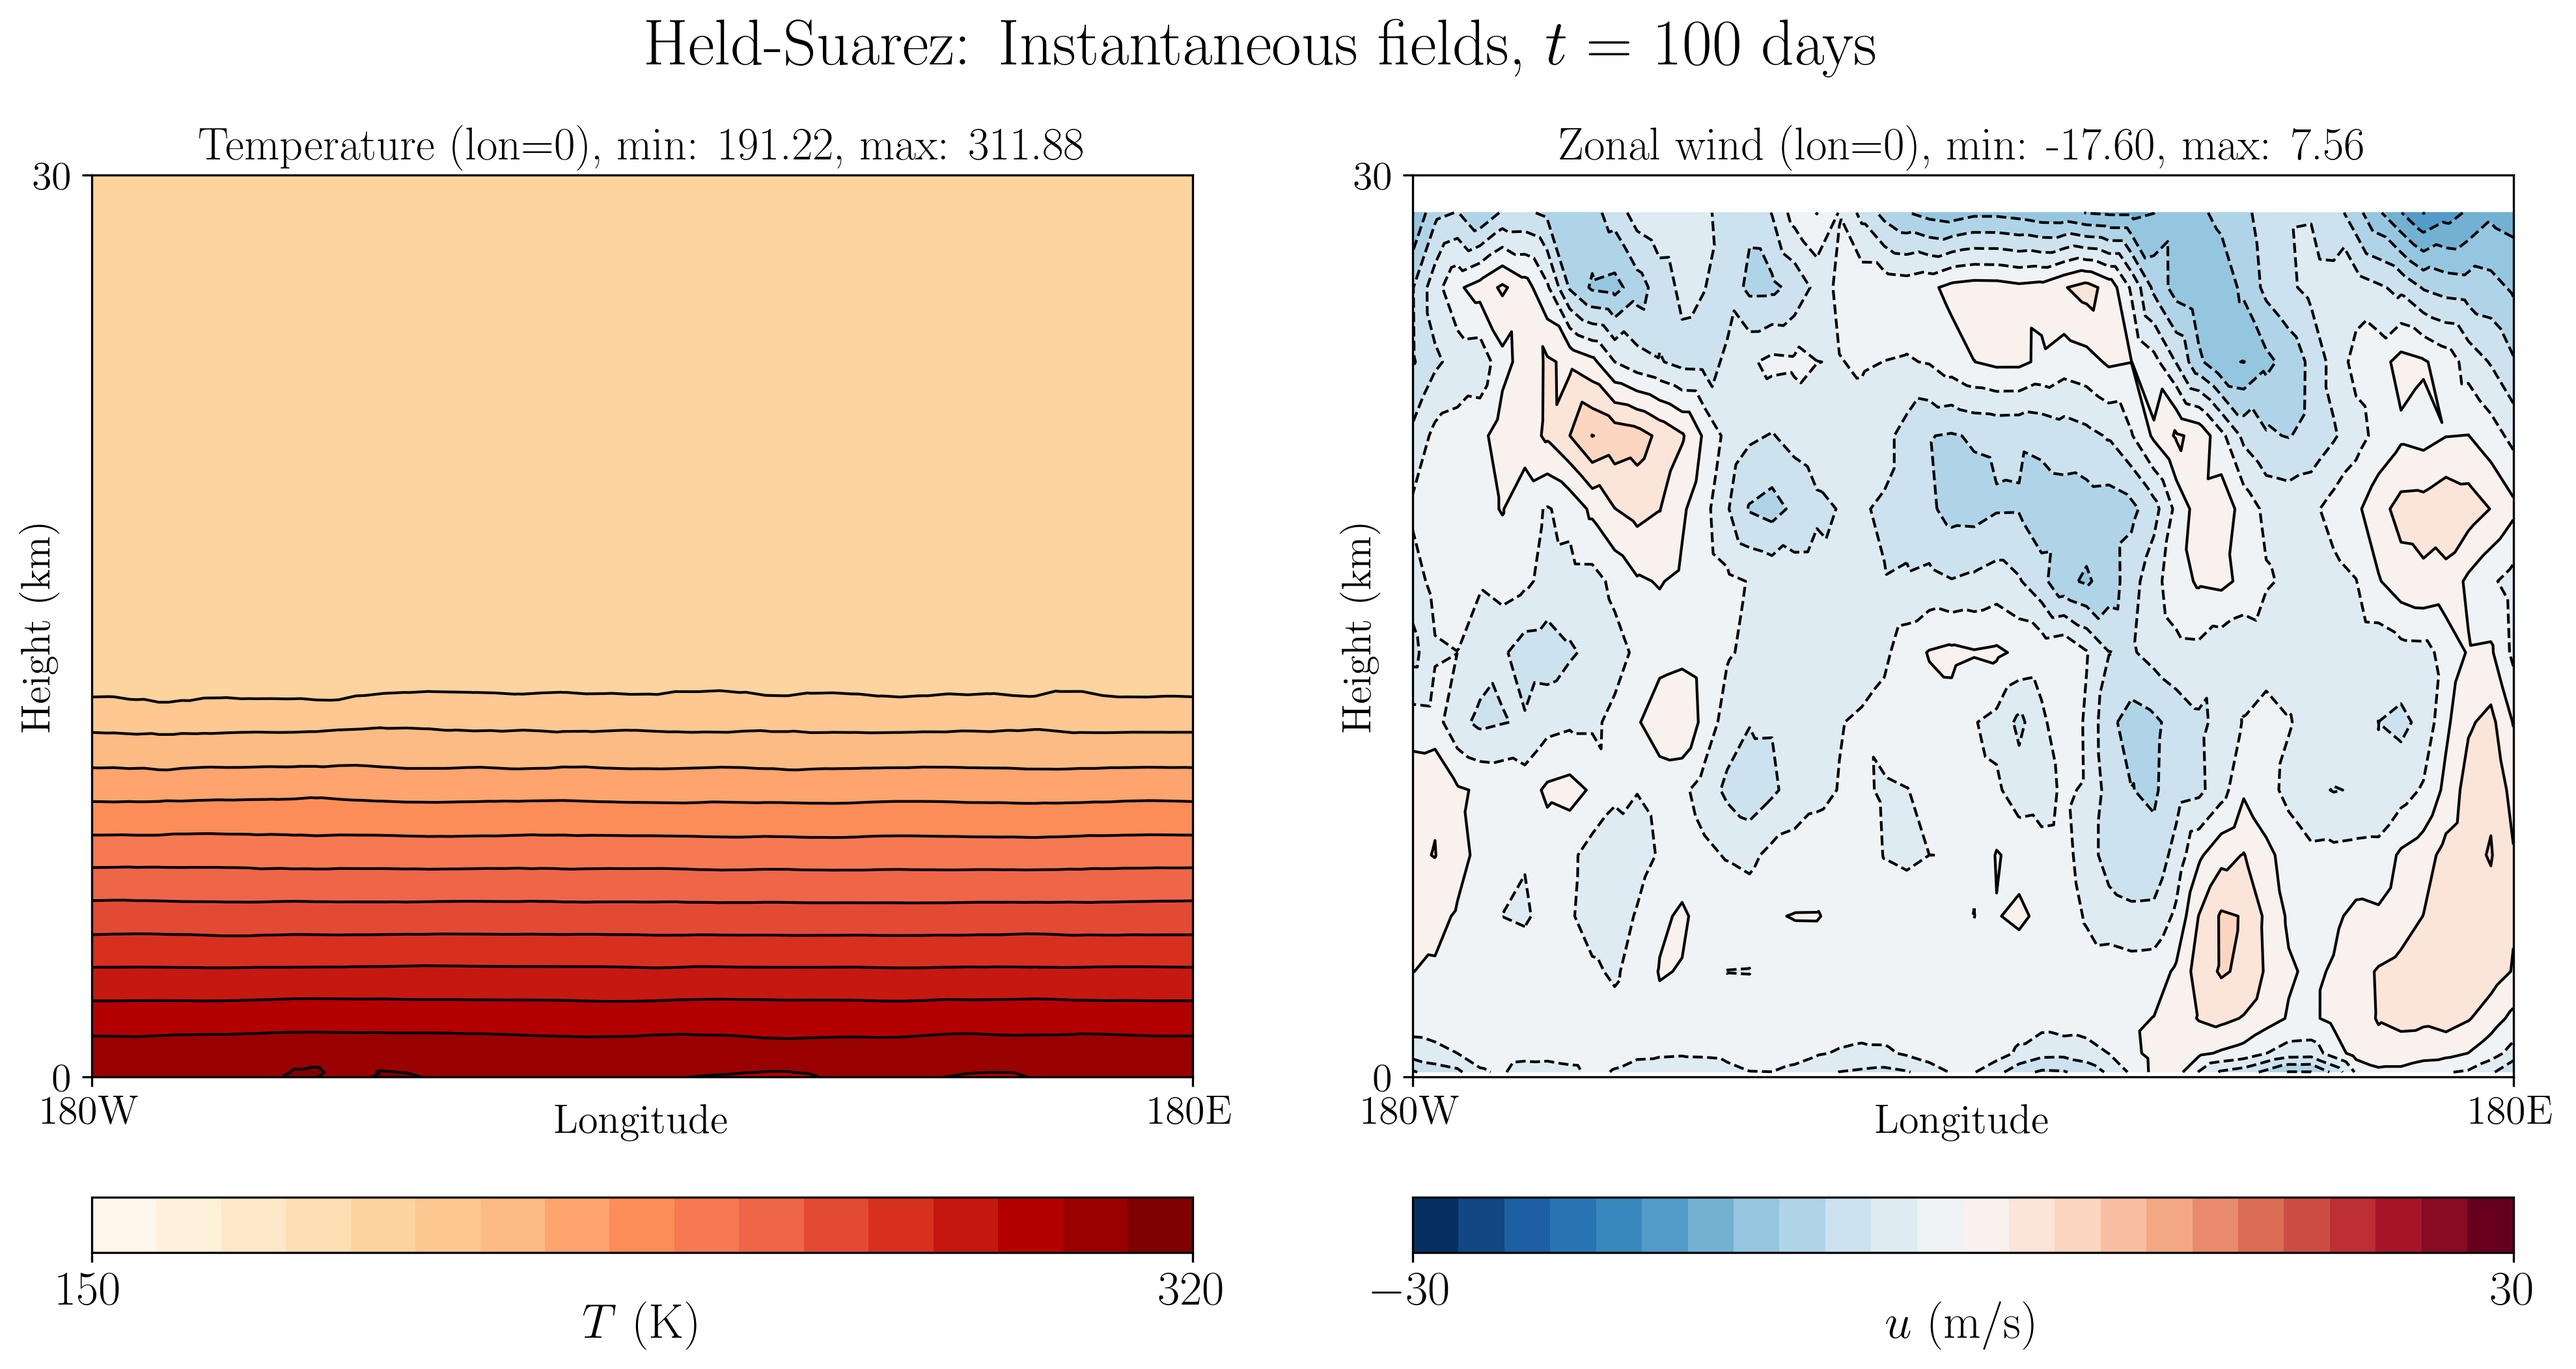
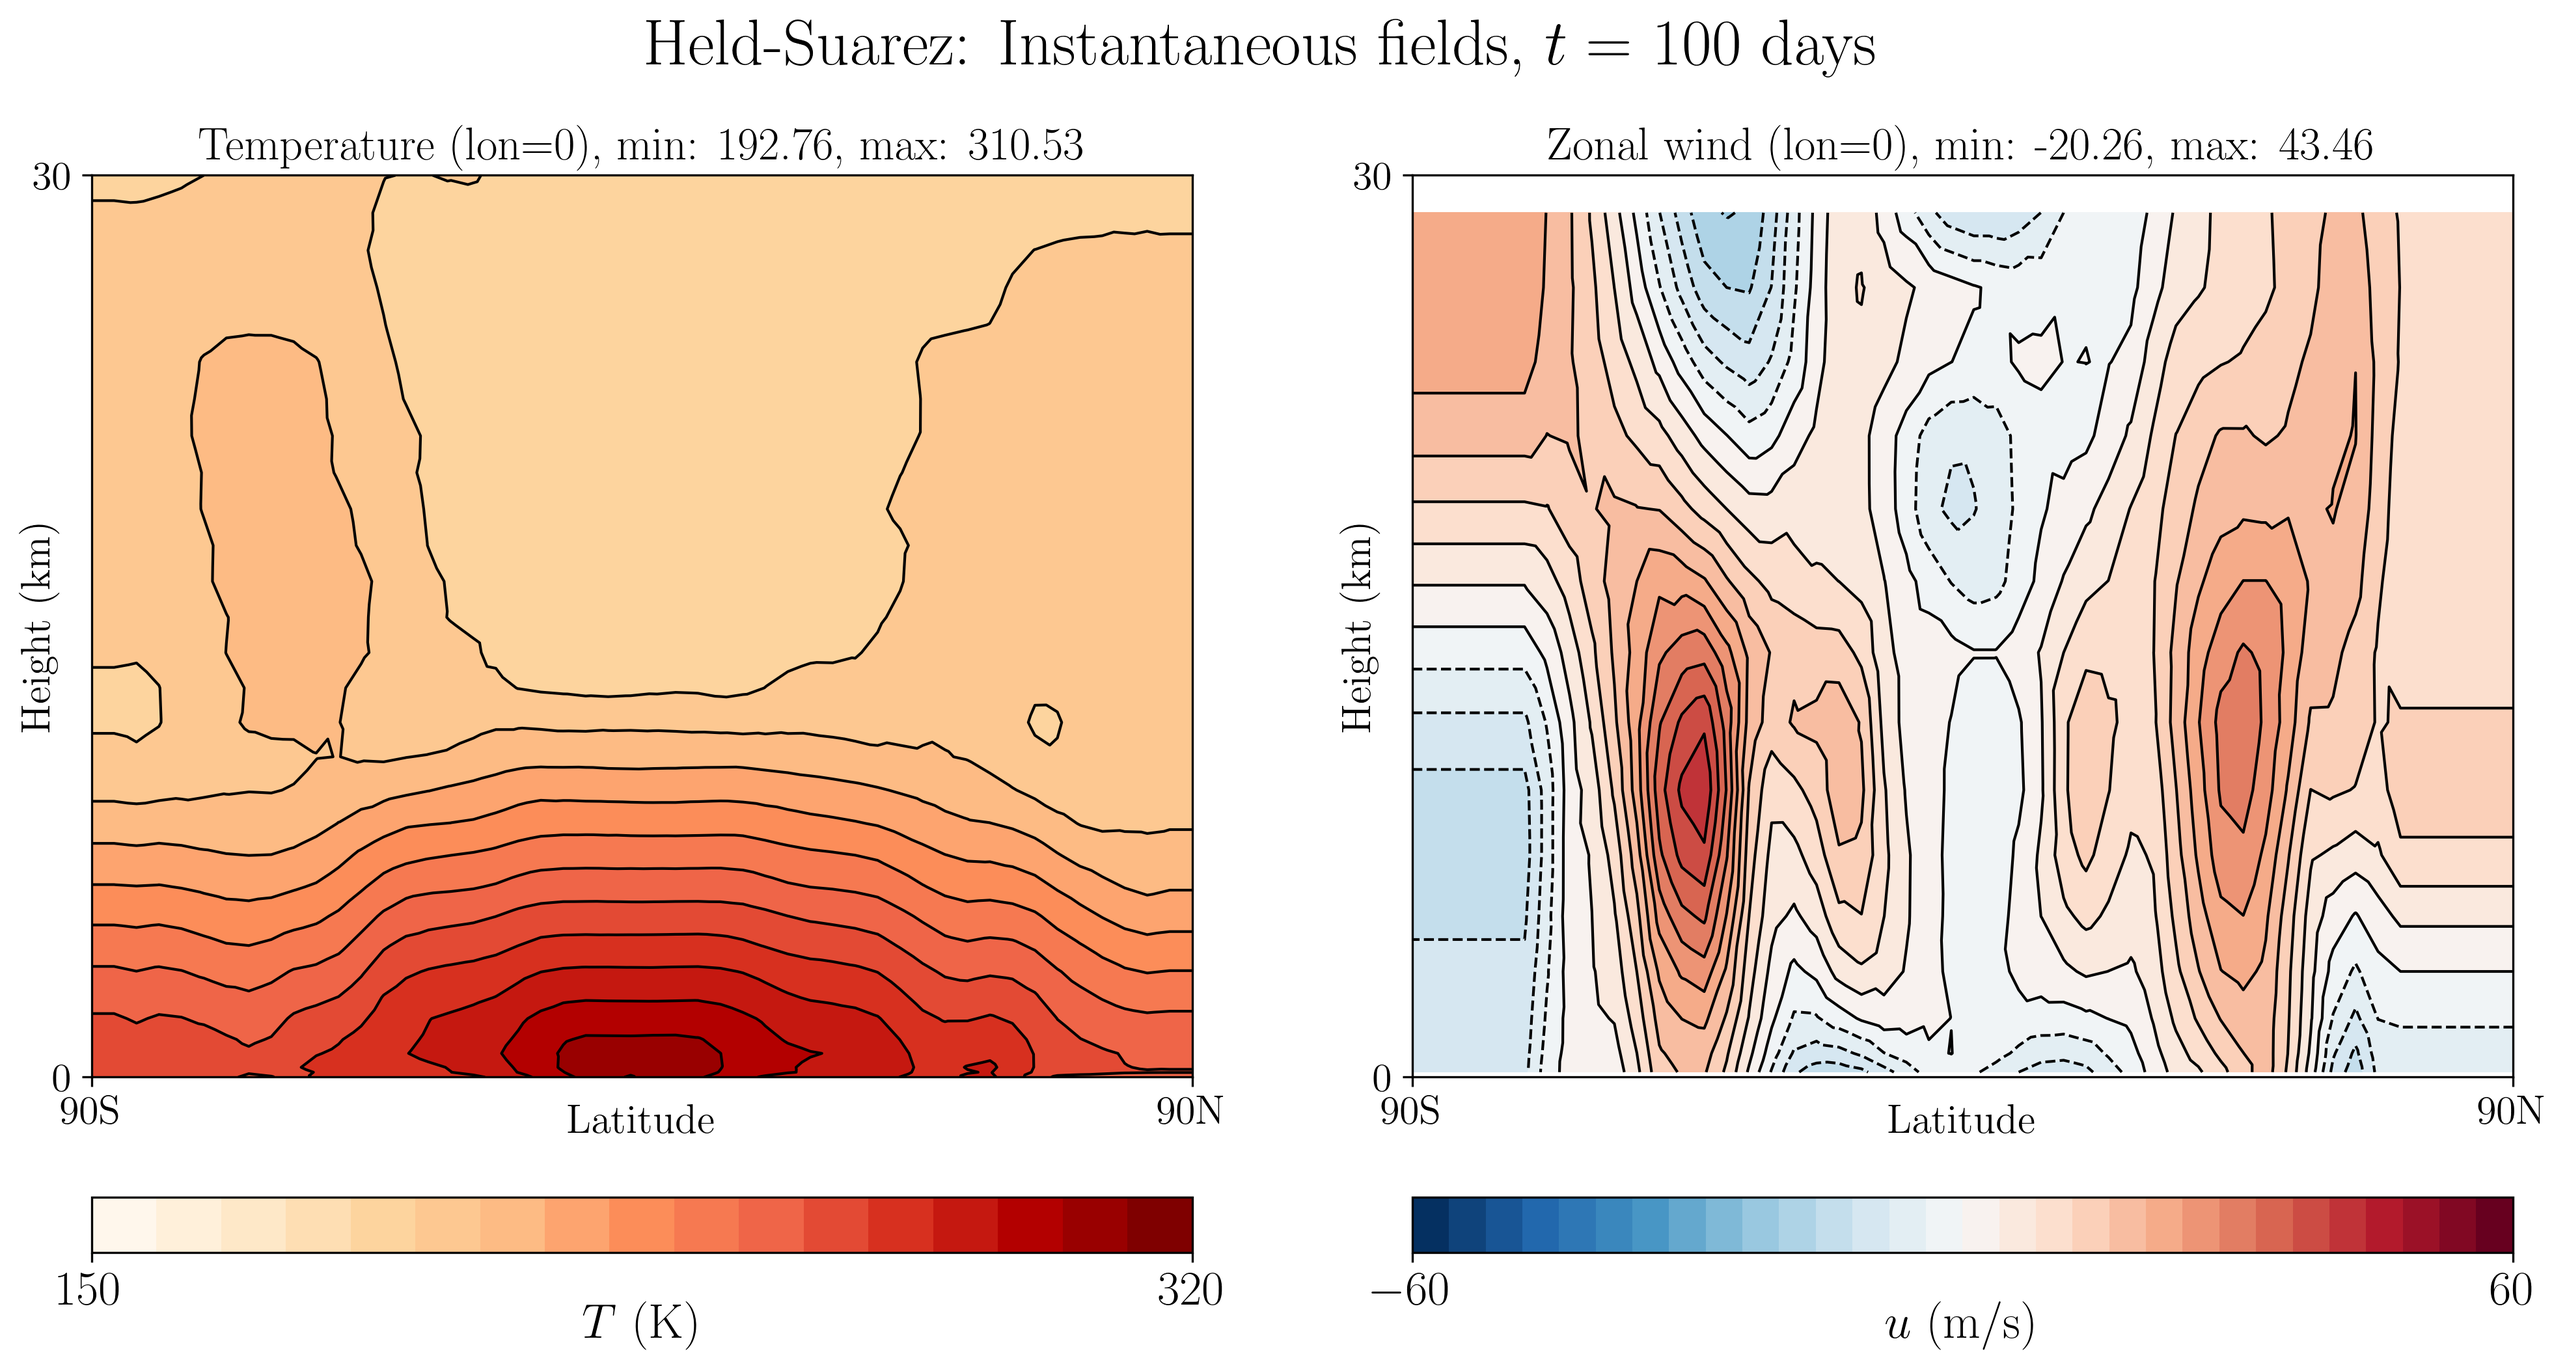
held-suarez completed and looks good!

diff --git a/plotting/compressible_euler/plot_held_suarez.py b/plotting/compressible_euler/plot_held_suarez.py
@@ -6,6 +6,9 @@ Plots include:
                   and lat/z slices at lon=0 of temperature and zonal wind
 - Instantaneous fields: lon/z slices of temperature and zonal wind after 100
                         and 1200 days
+- Instantaneous horizontal slices: lon/lat slices of temperature and pressure
+                        at the surface, and temperature and zonal wind at
+                        15 km height
 - Zonal averages: zonal averages of temperature and zonal wind
 """
 
@@ -17,19 +20,20 @@ from tomplot import (
     set_tomplot_style, tomplot_cmap, plot_contoured_field,
     add_colorbar_ax, extract_gusto_coords, extract_gusto_field,
     extract_gusto_vertical_slice, reshape_gusto_data, area_restriction,
-    tomplot_field_title, regrid_vertical_slice
+    tomplot_field_title, regrid_vertical_slice, zonal_average
 )
 
 # ---------------------------------------------------------------------------- #
 # Directory for results and plots
 # ---------------------------------------------------------------------------- #
 test = 'held_suarez'
+plot_instantaneous = False
 results_file_name = f'{abspath(dirname(__file__))}/../../results/{test}/field_output.nc'
 plot_stem = f'{abspath(dirname(__file__))}/../../figures/compressible_euler/{test}'
 
 all_contours = [
     np.linspace(150, 320, 18),
-    np.linspace(-30, 30, 25)
+    np.linspace(-60, 60, 31)
 ]
 
 # ---------------------------------------------------------------------------- #
@@ -61,7 +65,26 @@ instant_titles = ['Temperature', 'Zonal wind']
 instant_field_labels = [r'$T$ (K)', r'$u$ (m/s)']
 instant_colour_schemes = ['OrRd', 'RdBu_r']
 instant_slice_at = 0.0
-instant_time_idxs = [1]
+if plot_instantaneous:
+    instant_time_idxs = range(1, 13)
+else:
+    instant_time_idxs = []
+
+# ---------------------------------------------------------------------------- #
+# Instantaneous horizontal slice plot details
+# ---------------------------------------------------------------------------- #
+# lon/lat slices of temperature and pressure at the surface, and temperature
+# and zonal wind at a height of 15 km
+horiz_field_names = ['Temperature', 'Pressure_Vt', 'Temperature', 'u_zonal']
+horiz_titles = ['Temperature', 'Surface Pressure', 'Temperature', 'Zonal wind']
+horiz_field_labels = [r'$T$ (K)', r'$p$ (hPa)', r'$T$ (K)', r'$u$ (m/s)']
+horiz_colour_schemes = ['OrRd', 'PiYG_r', 'YlOrBr', 'RdBu_r']
+horiz_slice_heights = [0.0, 0.0, 15000.0, 15000.0]
+horiz_scale_factors = [1.0, 0.01, 1.0, 1.0]
+horiz_contours = [
+    np.linspace(250, 320, 29), np.linspace(940, 1030, 19),
+    np.linspace(190, 220, 13), all_contours[1]
+]
 
 # ---------------------------------------------------------------------------- #
 # General options
@@ -204,17 +227,17 @@ for time_idx in instant_time_idxs:
                       instant_colour_schemes, all_contours)):
         ax = axarray[col_idx]
         # -------------------------------------------------------------------- #
-        # Data extraction: lon/z slice at lat = 0
+        # Data extraction: lon/z slice at lon = 0
         # -------------------------------------------------------------------- #
         orig_field_data, orig_coords_X, orig_coords_Y, orig_coords_Z = \
             extract_gusto_vertical_slice(
                 data_file, field_name, time_idx,
-                slice_along='lat', slice_at=instant_slice_at
+                slice_along='lon', slice_at=instant_slice_at
             )
 
-        # Slice needs regridding as points don't cleanly live along lat = 0.0
+        # Slice needs regridding as points don't cleanly live along lon = 0.0
         field_data, coords_hori, coords_Z = regrid_vertical_slice(
-            plotting_grids['lat'], 'lat', instant_slice_at,
+            plotting_grids['lon'], 'lon', instant_slice_at,
             orig_coords_X, orig_coords_Y, orig_coords_Z, orig_field_data
         )
         # Convert height coordinate from m to km
@@ -234,10 +257,10 @@ for time_idx in instant_time_idxs:
             ax, f'{title} (lon=0)', fontsize='17.0',
             minmax=True, field_data=field_data
         )
-        ax.set_xlim(xlims)
-        ax.set_xticks(xticks)
-        ax.set_xticklabels(xtick_labels, fontsize='15.0')
-        ax.set_xlabel('Longitude', labelpad=-10, fontsize='15.0')
+        ax.set_xlim(initial_xlims)
+        ax.set_xticks(yticks)
+        ax.set_xticklabels(ytick_labels, fontsize='15.0')
+        ax.set_xlabel('Latitude', labelpad=-10, fontsize='15.0')
         ax.set_ylim(initial_ylims_km)
         ax.set_yticks(initial_ylims_km)
         ax.set_yticklabels(initial_ylims_km, fontsize='15.0')
@@ -253,13 +276,131 @@ for time_idx in instant_time_idxs:
     plt.close()
 
 # ---------------------------------------------------------------------------- #
-# 3. Zonal averages
+# 3. Instantaneous horizontal slices
 # ---------------------------------------------------------------------------- #
-# TODO: tomplot does not yet have a routine to compute zonal averages of
-# fields extracted from unstructured Gusto output. Once such a routine
-# exists, use it here to plot the zonal-mean temperature and zonal wind
-# (as functions of latitude and height) for Held-Suarez.
-print(
-    'Zonal average plot not yet implemented -- awaiting a zonal-averaging '
-    'routine in tomplot'
-)
+
+for time_idx in instant_time_idxs:
+    fig, axarray = plt.subplots(2, 2, figsize=(16, 12))
+
+    time = data_file['time'][time_idx]
+    time_in_days = time / (24*60*60)
+
+    for ax, field_name, title, field_label, colour_scheme, slice_height, scale_factor, contours in \
+        zip(axarray.flatten(), horiz_field_names, horiz_titles, horiz_field_labels,
+            horiz_colour_schemes, horiz_slice_heights, horiz_scale_factors, horiz_contours):
+        # -------------------------------------------------------------------- #
+        # Data extraction
+        # -------------------------------------------------------------------- #
+        field_full = extract_gusto_field(data_file, field_name, time_idx)
+        coords_X_full, coords_Y_full, coords_Z_full = \
+            extract_gusto_coords(data_file, field_name)
+
+        field_full, coords_X_full, coords_Y_full, coords_Z_full = \
+            reshape_gusto_data(field_full, coords_X_full, coords_Y_full, coords_Z_full)
+
+        # Find the model level whose height is closest to the requested slice height
+        level_idx = np.argmin(np.abs(coords_Z_full[0, :] - slice_height))
+
+        field_data, coords_hori_X, coords_hori_Y = area_restriction(
+            field_full[:, level_idx], coords_X_full[:, level_idx],
+            coords_Y_full[:, level_idx], domain_limit
+        )
+        field_data = field_data * scale_factor
+        # -------------------------------------------------------------------- #
+        # Plot data
+        # -------------------------------------------------------------------- #
+        cmap, lines = tomplot_cmap(contours, colour_scheme)
+        cf, _ = plot_contoured_field(ax, coords_hori_X, coords_hori_Y, field_data,
+                                     contour_method, contours, cmap=cmap,
+                                     line_contours=lines)
+        add_colorbar_ax(ax, cf, field_label, location='bottom', pad=0.15,
+                        cbar_labelpad=-5, cbar_format='.0f')
+
+        height_label = 'surface' if slice_height == 0.0 else f'z = {slice_height/1000:.0f} km'
+        tomplot_field_title(ax, f'{title} ({height_label})', fontsize='17.0',
+                            minmax=True, field_data=field_data)
+        ax.set_xlim(xlims)
+        ax.set_xticks(xticks)
+        ax.set_xticklabels(xtick_labels, fontsize='15.0')
+        ax.set_xlabel('Longitude', labelpad=-10, fontsize='15.0')
+        ax.set_ylim(ylims)
+        ax.set_yticks(yticks)
+        ax.set_yticklabels(ytick_labels, fontsize='15.0')
+        ax.set_ylabel('Latitude', labelpad=-20, fontsize='15.0')
+
+    fig.suptitle(rf'Held-Suarez: Instantaneous horizontal slices, $t=$ {int(time_in_days)} days', y=0.98, fontsize=24)
+    # ------------------------------------------------------------------------ #
+    # Save figure
+    # ------------------------------------------------------------------------ #
+    plot_name = f'{plot_stem}_instantaneous_horizontal_day{int(time_in_days):04d}.png'
+    print(f'Saving figure to {plot_name}')
+    fig.savefig(plot_name, bbox_inches='tight', dpi=300)
+    plt.close()
+
+# ---------------------------------------------------------------------------- #
+# 4. Zonal averages
+# ---------------------------------------------------------------------------- #
+zonal_field_names = ['Temperature_average', 'u_zonal_average']
+time_idx = -1
+
+fig, axarray = plt.subplots(1, 2, figsize=(16, 8))
+
+time = data_file['time'][time_idx]
+time_in_days = time / (24*60*60)
+
+for col_idx, (field_name, title, field_label, colour_scheme, contours) in \
+    enumerate(zip(zonal_field_names, instant_titles, instant_field_labels,
+                  instant_colour_schemes, all_contours)):
+    ax = axarray[col_idx]
+    # -------------------------------------------------------------------- #
+    # Data extraction and zonal averaging
+    # -------------------------------------------------------------------- #
+    field_full = extract_gusto_field(data_file, field_name, time_idx)
+    coords_X_full, coords_Y_full, coords_Z_full = \
+        extract_gusto_coords(data_file, field_name)
+
+    # Bins with no data points (e.g. near the poles, for fields whose mesh
+    # points don't extend all the way to the poles) are omitted by
+    # zonal_average, rather than being left as NaN
+    zonal_mean, lat_bin_centres, level_heights = zonal_average(
+        field_full, coords_X_full, coords_Y_full, coords_Z_full, num_bins=60
+    )
+    # Convert height coordinate from m to km
+    level_heights_km = level_heights / 1000.0
+    # Zonal-mean data is structured (lat x height), so build a meshgrid and
+    # use the "contour" method rather than "tricontour"
+    coords_lat_2d, coords_height_2d = np.meshgrid(
+        lat_bin_centres, level_heights_km
+    )
+    # -------------------------------------------------------------------- #
+    # Plot data
+    # -------------------------------------------------------------------- #
+    cmap, lines = tomplot_cmap(contours, colour_scheme)
+    cf, _ = plot_contoured_field(
+        ax, coords_lat_2d, coords_height_2d, zonal_mean.T, 'contour',
+        contours, cmap=cmap, line_contours=lines
+    )
+    add_colorbar_ax(ax, cf, field_label, location='bottom', pad=0.1,
+                    cbar_labelpad=-5, cbar_format='.0f')
+
+    tomplot_field_title(
+        ax, f'Zonal-mean {title.lower()}', fontsize='17.0',
+        minmax=True, field_data=zonal_mean
+    )
+    ax.set_xlim(initial_xlims)
+    ax.set_xticks(yticks)
+    ax.set_xticklabels(ytick_labels, fontsize='15.0')
+    ax.set_xlabel('Latitude', labelpad=-10, fontsize='15.0')
+    ax.set_ylim(initial_ylims_km)
+    ax.set_yticks(initial_ylims_km)
+    ax.set_yticklabels(initial_ylims_km, fontsize='15.0')
+    ax.set_ylabel('Height (km)', labelpad=-10, fontsize='15.0')
+
+fig.suptitle(rf'Held-Suarez: Zonal averages, $t=$ {int(time_in_days)} days', y=0.98, fontsize=24)
+# ------------------------------------------------------------------------------ #
+# Save figure
+# ------------------------------------------------------------------------------ #
+plot_name = f'{plot_stem}_zonal_average.png'
+print(f'Saving figure to {plot_name}')
+fig.savefig(plot_name, bbox_inches='tight', dpi=300)
+plt.close()

diff --git a/case_studies/compressible_euler/held_suarez.py b/case_studies/compressible_euler/held_suarez.py
@@ -27,7 +27,7 @@ from gusto import (
     MeridionalComponent, ZonalComponent, Pressure, RadialComponent, Temperature,
     Relaxation, RayleighFriction, ForwardEuler, BackwardEuler,
     compressible_hydrostatic_balance, logger, SIQNModel,
-    HeldSuarezParameters, pick_up_mesh
+    HeldSuarezParameters, pick_up_mesh, TimeAveragedDiagnostic
 )
 
 held_suarez_defaults = {
@@ -160,7 +160,9 @@ def held_suarez(
     # Diagnostics
     diagnostic_fields = [
         MeridionalComponent('u'), ZonalComponent('u'), RadialComponent('u'),
-        Temperature(model.equation), Pressure(model.equation)
+        Temperature(model.equation), Pressure(model.equation),
+        TimeAveragedDiagnostic('Temperature', sample_freq=9),
+        TimeAveragedDiagnostic('u_zonal', sample_freq=9)
     ]
 
     # Held-Suarez physics schemes
@@ -352,7 +354,7 @@ if __name__ == "__main__":
     parser.add_argument(
         '--pickup',
         help="Pick up from checkpoint or initialise from scratch.",
-        type=bool,
+        action="store_true",
         default=held_suarez_defaults['pickup']
     )
     parser.add_argument(
